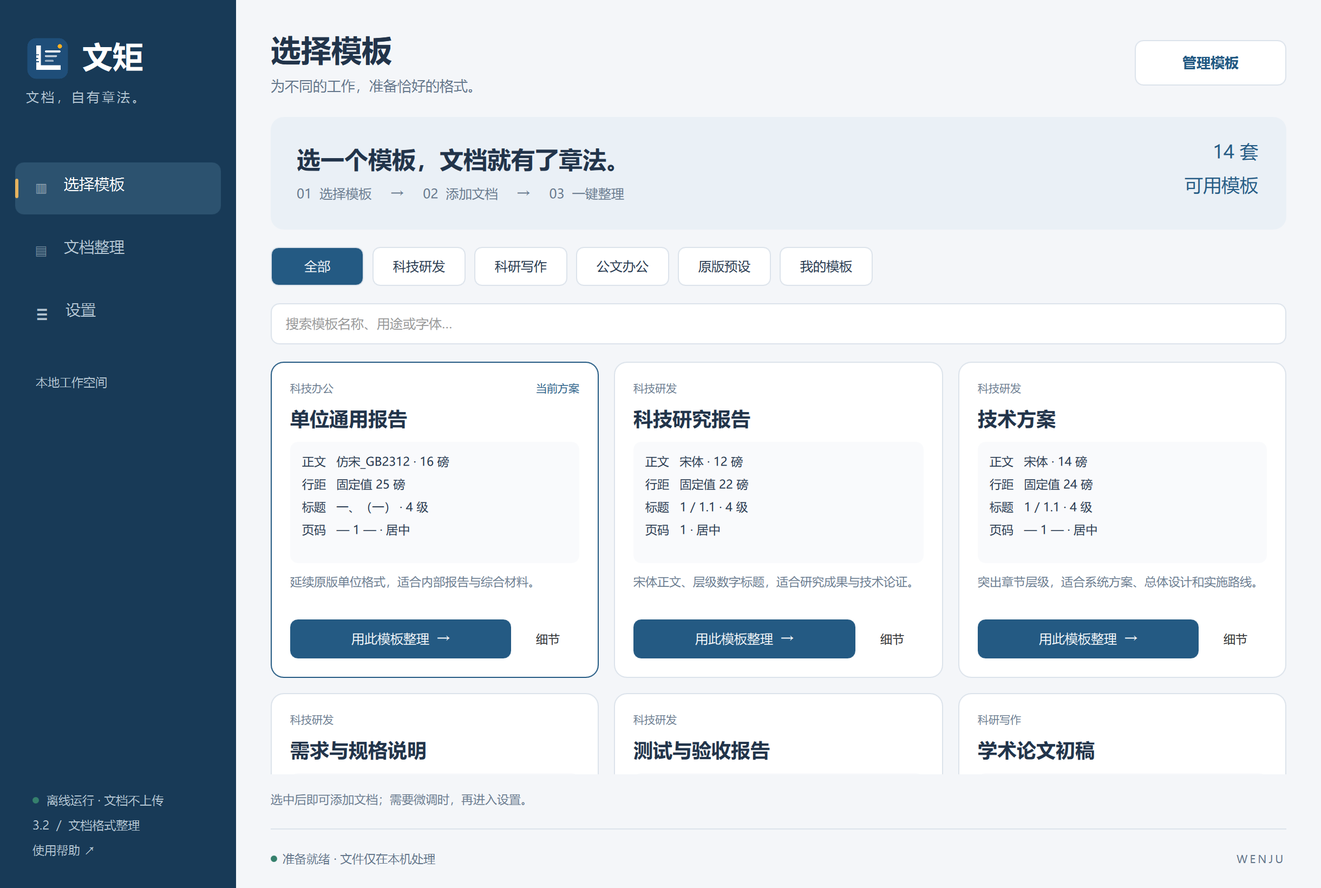
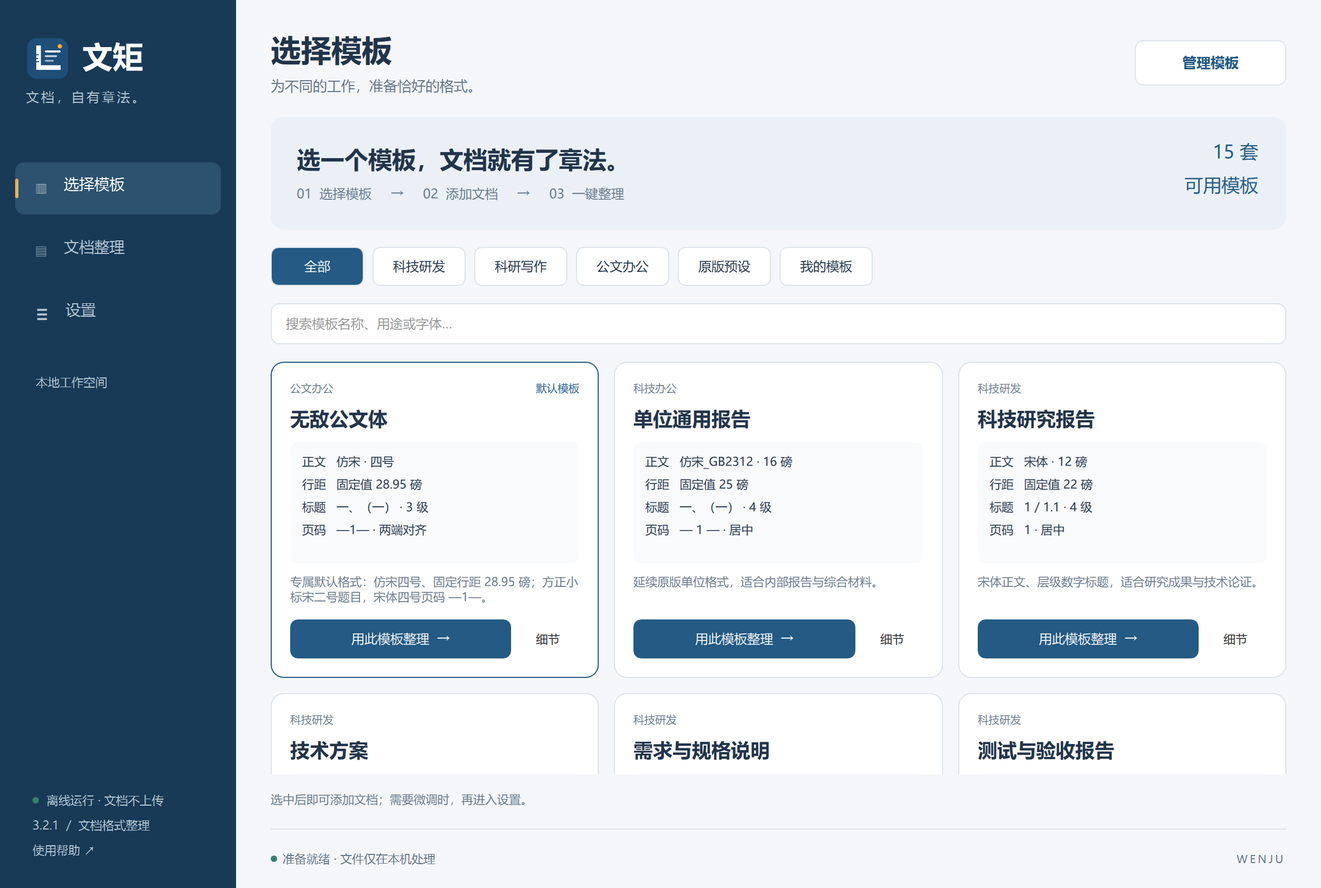
Add Wudi official default preset and document title/security styles

diff --git a/Main.qml b/Main.qml
@@ -158,7 +158,7 @@ ApplicationWindow {
         }
         Column {x:30;anchors.bottom:parent.bottom;anchors.bottomMargin:28;spacing:9
             Row {spacing:7;Rectangle{width:6;height:6;radius:3;color:appearance.palette["#8cbaa8"];anchors.verticalCenter:parent.verticalCenter} Txt{text:"离线运行 · 文档不上传";color:appearance.palette["#adc1d0"];font.pixelSize:Math.round(11*appearance.scale)}}
-            Txt {text:"3.2  /  文档格式整理";color:appearance.palette["#738fa6"];font.pixelSize:Math.round(11*appearance.scale)}
+            Txt {text:"3.2.1  /  文档格式整理";color:appearance.palette["#738fa6"];font.pixelSize:Math.round(11*appearance.scale)}
             Txt {text:"使用帮助 ↗";color:appearance.palette["#adc1d0"];font.pixelSize:Math.round(11*appearance.scale);MouseArea{anchors.fill:parent;cursorShape:Qt.PointingHandCursor;onClicked:bridge.help()}}
         }
     }
@@ -272,7 +272,7 @@ ApplicationWindow {
                                 ColumnLayout {Layout.fillWidth:true;Txt{text:"字间距 / 磅";font.pixelSize:Math.round(12*appearance.scale);color:muted}Choice{Layout.fillWidth:true;editable:true;validator:DoubleValidator{bottom:-2;top:20} model:["-0.5","0","0.5","1","1.5","2","3"];editText:String(win.spacing);currentIndex:model.indexOf(String(win.spacing));onActivated:{win.spacing=Number(currentText);selectedPreset=-1;win.commitPage()}onAccepted:{if(Number(editText)>=-2&&Number(editText)<=20){win.spacing=Number(editText);win.commitPage();}}}}
                             }
                             Txt{text:"对齐方式";font.pixelSize:Math.round(12*appearance.scale);color:muted}
-                            Choice {Layout.fillWidth:true;model:["底部左侧","底部居中","底部右侧"];currentIndex:model.indexOf(win.alignment);onActivated:{win.alignment=currentText;win.commitPage();}}
+                            Choice {Layout.fillWidth:true;model:["底部左侧","底部居中","底部右侧","底部两端对齐"];currentIndex:model.indexOf(win.alignment);onActivated:{win.alignment=currentText;win.commitPage();}}
                             Txt{text:"从哪里开始编号";font.pixelSize:Math.round(12*appearance.scale);color:muted}
                             Choice {Layout.fillWidth:true;model:["目录后","封面后","全文"];currentIndex:model.indexOf(win.startMode);onActivated:{win.startMode=currentText;win.commitPage();}}
                             Item{Layout.preferredHeight:4}
@@ -293,7 +293,7 @@ ApplicationWindow {
                             Rectangle {anchors{left:parent.left;right:parent.right;bottom:parent.bottom;leftMargin:24;rightMargin:24;bottomMargin:65}height:1;color:appearance.palette["#edf0f4"]}
                             Text {anchors{left:parent.left;right:parent.right;bottom:parent.bottom;leftMargin:24;rightMargin:24;bottomMargin:30}
                                 text:win.pageEnabled?win.prefix+"1"+win.suffix:"不显示页码";color:"#22344a";font.family:win.pageFont;font.pointSize:win.pageSize;font.letterSpacing:win.spacing*96/72
-                                horizontalAlignment:win.alignment==="底部左侧"?Text.AlignLeft:win.alignment==="底部右侧"?Text.AlignRight:Text.AlignHCenter
+                                horizontalAlignment:(win.alignment==="底部左侧"||win.alignment==="底部两端对齐")?Text.AlignLeft:win.alignment==="底部右侧"?Text.AlignRight:Text.AlignHCenter
                             }
                         }
                         Txt{anchors{bottom:parent.bottom;bottomMargin:22;horizontalCenter:parent.horizontalCenter}text:"示意预览 · 实际分页以 Word / WPS 为准";color:muted;font.pixelSize:Math.round(11*appearance.scale)}

diff --git a/TemplateHome.qml b/TemplateHome.qml
@@ -38,7 +38,7 @@ ColumnLayout {
                         RowLayout {Layout.fillWidth:true
                             Text{text:modelData.category;color:appearance.colors.muted;font.family:appearance.fontFamily;font.pixelSize:Math.round(10*appearance.scale)}
                             Item{Layout.fillWidth:true}
-                            Text{text:bridge.selectedId===modelData.id?"当前方案":"";color:appearance.colors.accent;font.family:appearance.fontFamily;font.pixelSize:Math.round(10*appearance.scale)}
+                            Text{text:modelData.id==="wudi-official"?"默认模板":bridge.selectedId===modelData.id?"当前方案":"";color:appearance.colors.accent;font.family:appearance.fontFamily;font.pixelSize:Math.round(10*appearance.scale)}
                         }
                         Text{text:modelData.name;Layout.fillWidth:true;elide:Text.ElideRight;color:appearance.colors.ink;font.family:appearance.fontFamily;font.pixelSize:Math.round(18*appearance.scale);font.weight:Font.DemiBold}
                         Rectangle {Layout.fillWidth:true;Layout.preferredHeight:112*appearance.scale;radius:7;color:appearance.colors.field

diff --git a/preset_store.py b/preset_store.py
@@ -5,7 +5,7 @@ import math
 import uuid
 import zipfile
 from pathlib import Path
-from templates import CATALOG, apply_template
+from templates import CATALOG, apply_template, DEFAULT_TEMPLATE
 from rule_schema import OPTIONS, GROUP_TIPS, FONT_CHOICES
 
 ROOT = Path(__file__).resolve().parent
@@ -25,13 +25,13 @@ def atomic_json(path, value):
 def options_for(path):
     opt=OPTIONS.get(path)
     if opt is not None:return opt
-    if path.endswith('.字号'):return list(SIZES)
+    if path.endswith('字号'):return list(SIZES)
     return None
 
 def checked(path,value,default):
     key=path.split('.')[-1]
     if isinstance(value,str) and any(ord(c)<32 and c not in '\t\r\n' for c in value):raise ValueError(path+' 包含非法控制字符')
-    if key=='字号':
+    if key.endswith('字号'):
         if isinstance(value,str) and value in SIZES:return value
         if isinstance(value,bool):raise ValueError(path+' 必须是字号名或磅数')
         try:v=float(value)
@@ -59,7 +59,7 @@ def checked(path,value,default):
     if opt is not None and value not in opt:raise ValueError(path+' 的选项无效')
     if path=='输出.后缀' and (not value.strip() or any(c in value for c in '\\/:*?"<>|') or any(ord(c)<32 for c in value)):
         raise ValueError('输出后缀不能为空，也不能包含路径或文件名非法字符')
-    if isinstance(value,str) and (key in ('字体','中文字体') or path.startswith('字体.') and key!='模式') and not value.strip():raise ValueError(path+' 不能为空')
+    if isinstance(value,str) and (key.endswith('字体') or path.startswith('字体.') and key!='模式') and not value.strip():raise ValueError(path+' 不能为空')
     return value
 
 def normalize(raw):
@@ -100,12 +100,12 @@ def fields(rules,section):
         if key.startswith('_') or isinstance(value,dict):continue
         path=section+'.'+key;opt=options_for(path)
         kind='bool' if isinstance(value,bool) else 'array' if isinstance(value,list) else 'number' if isinstance(value,(int,float)) else 'text'
-        editable=key=='字号' or (key=='字体' or section=='字体' and key!='模式' or key=='中文字体')
-        if opt is None and editable and key!='字号':opt=FONT_CHOICES
+        editable=key.endswith('字号') or key.endswith('字体') or (key=='字体' or section=='字体' and key!='模式' or key=='中文字体')
+        if opt is None and editable and not key.endswith('字号'):opt=FONT_CHOICES
         if opt is not None:kind='choice'
         values=list(opt) if opt is not None else []
         labels=list(opt.values()) if isinstance(opt,dict) else [str(v) for v in values]
-        unit='cm' if key in ('上边距','下边距','左边距','右边距','页眉距','页脚距') else '字符' if '缩进字符' in key else '磅' if key in ('段前','段后','字间距') else ''
+        unit='cm' if key in ('上边距','下边距','左边距','右边距','页眉距','页脚距') else '字符' if '缩进字符' in key else '磅' if key in ('段前','段后','字间距','题目行距','密级行距') else ''
         rows.append({'path':path,'label':key,'value':value,'display':'、'.join(value) if isinstance(value,list) else str(value),
             'kind':kind,'values':values,'labels':labels,'editable':editable,'unit':unit})
     return rows
@@ -116,7 +116,7 @@ class PresetStore:
         self.custom=[];self.builtins={}
         for item in CATALOG:
             rules=apply_template(BASE,item['id'])
-            a,b={'1':('',''),'— 1 —':('— ',' —'),'第 1 页':('第 ',' 页')}[item['page']]
+            a,b={'1':('',''),'— 1 —':('— ',' —'),'—1—':('—','—'),'第 1 页':('第 ',' 页')}[item['page']]
             rules['页码'].update({'左侧字符':a,'右侧字符':b,'统一字体':True,'字体':'Times New Roman' if not a else '宋体','中文字体':'宋体','起始位置':'全文' if item['category']=='公文办公' else '目录后'})
             self.builtins[item['id']]={**item,'rules':rules,'builtin':True}
         for i,path in enumerate(sorted((ROOT/'core/预设').glob('*.json'))):
@@ -126,10 +126,10 @@ class PresetStore:
         if custom_path.exists():
             self.custom=json.loads(custom_path.read_text('utf-8-sig'))
             for item in self.custom:item['rules']=normalize(item['rules'])
-        self.selected='unit';self.rules=copy.deepcopy(self.builtins['unit']['rules']);self.dirty=False
+        self.selected=DEFAULT_TEMPLATE;self.rules=copy.deepcopy(self.builtins[DEFAULT_TEMPLATE]['rules']);self.dirty=False
         current=self.data/'current.json'
         if current.exists():
-            x=json.loads(current.read_text('utf-8-sig'));self.rules=normalize(x['rules']);self.selected=x.get('selected','unit');self.dirty=x.get('dirty',False)
+            x=json.loads(current.read_text('utf-8-sig'));self.rules=normalize(x['rules']);self.selected=x.get('selected',DEFAULT_TEMPLATE);self.dirty=x.get('dirty',False)
     def persist(self):atomic_json(self.data/'current.json',{'selected':self.selected,'rules':self.rules,'dirty':self.dirty})
     def items(self):return list(self.builtins.values())+self.custom
     def find(self,id):
@@ -156,7 +156,7 @@ class PresetStore:
         if not t or t.get('builtin'):raise ValueError('内置模板不能删除')
         updated=[x for x in self.custom if x['id']!=id]
         atomic_json(self.data/'templates.json',updated);self.custom=updated
-        if id==self.selected:self.select('unit')
+        if id==self.selected:self.select(DEFAULT_TEMPLATE)
     def import_files(self,paths):
         incoming=[]
         def parse(raw,name):

diff --git a/core/docx_fmt.py b/core/docx_fmt.py
@@ -443,6 +443,15 @@ class Formatter:
         st, pp, rp = ensure("CoverInfo", "封面落款")
         apply_para_fmt(pp, cv["落款"]); apply_run_fmt(rp, cv["落款"], F["封面落款"], west)
         reorder(pp, PPR_ORDER); reorder(rp, RPR_ORDER)
+        official = self.R.get("公文", {})
+        if official.get("启用"):
+            for sid, name, prefix, align in (("OfficialTitle", "公文题目", "题目", "center"), ("SecurityMark", "密级", "密级", "left")):
+                cfg = {"字号": official[prefix+"字号"], "加粗": False, "对齐": align,
+                       "行距类型": "固定值", "行距值": official[prefix+"行距"],
+                       "段前": 0, "段后": 0, "首行缩进字符": 0}
+                st, pp, rp = ensure(sid, name)
+                apply_para_fmt(pp, cfg); apply_run_fmt(rp, cfg, official[prefix+"字体"], west)
+                reorder(pp, PPR_ORDER); reorder(rp, RPR_ORDER)
         self.note("样式重建数", 9)
 
     # ---------- 段落分类
@@ -743,7 +752,7 @@ class Formatter:
     def _add_footer_part(self, items, N):
         font = N.get("字体", "宋体")
         size = size_pt(N.get("字号", 10.5), 10.5)
-        jc = {"底部居中": "center", "底部右侧": "right", "底部左侧": "left"}.get(N.get("位置", "底部居中"), "center")
+        jc = {"底部居中": "center", "底部右侧": "right", "底部左侧": "left", "底部两端对齐": "both"}.get(N.get("位置", "底部居中"), "center")
         legacy = {"1": ("", ""), "- 1 -": ("- ", " -"), "第 1 页": ("第 ", " 页")}
         pre, post = legacy.get(N.get("格式", "1"), ("", ""))
         pre, post = N.get("左侧字符", pre), N.get("右侧字符", post)
@@ -829,9 +838,28 @@ class Formatter:
         F, B, C, T = self.R["字体"], self.R["正文"], self.R["题注"], self.R["表格"]
         kids = list(body)
         self.toc_range = self.find_toc(kids)
+        official = self.R.get("公文", {})
+        special = {}
+        if official.get("启用"):
+            front = True
+            for p in kids:
+                if p.tag != q("p"):
+                    front = False
+                    continue
+                text = para_text(p).strip()
+                if not text: continue
+                sid = style_id(p)
+                if front and official.get("识别密级行", True) and re.fullmatch(r"(?:秘密|机密|绝密)(?:[★☆·\s]*(?:\d+年|\d+个月|长期|永久))?", text):
+                    special[id(p)] = ("SecurityMark", "密级")
+                    continue
+                align = p.find("w:pPr/w:jc", NS)
+                is_title = sid in ("Title", "标题", "OfficialTitle") or sid == self.sid.get("Title", "__missing__")
+                if is_title or (front and official.get("首个居中段作为题目", True) and align is not None and align.get(q("val")) == "center" and len(text) <= 100 and not self.label_level(text)):
+                    special[id(p)] = ("OfficialTitle", "题目")
+                front = False
         # 封面判定：首个 sectPr 段落之前、且其中无标题 → 视为封面
         cover_end = -1
-        if self.R["封面"]["启用"]:
+        if self.R["封面"]["启用"] and not official.get("启用"):
             for i, k in enumerate(kids):
                 if k.tag == q("p") and k.find("w:pPr/w:sectPr", NS) is not None:
                     cover_end = i; break
@@ -875,6 +903,13 @@ class Formatter:
                 self.do_table(k); prev_img = False; last_cls = "tbl"; continue
             if k.tag != q("p"): continue
             p = k
+            if id(p) in special:
+                sid, prefix = special[id(p)]
+                self.para_reset(p, sid, keep_next=True)
+                self.clean_runs(p, official[prefix+"字号"], official[prefix+"字体"], keep_bi=False)
+                self.note("公文"+prefix+"段数")
+                prev_img = False; last_cls = "official"
+                continue
             next_tbl = (i + 1 < len(kids) and kids[i + 1].tag == q("tbl"))
             cls = self.classify(p, None, next_tbl, prev_img)
             txt = para_text(p).strip()

diff --git a/templates.py b/templates.py
@@ -1,7 +1,10 @@
 """Editable scenario presets. These are house styles, not certified standards."""
 import copy
 
+DEFAULT_TEMPLATE = 'wudi-official'
+
 CATALOG = [
+    dict(id=DEFAULT_TEMPLATE,name='无敌公文体',category='公文办公',desc='专属默认格式：仿宋四号、固定行距 28.95 磅；方正小标宋二号题目，宋体四号页码 —1—。',font='仿宋',size=14,line=28.95,number='汉字顿号',page='—1—'),
     dict(id='unit',name='单位通用报告',category='科技办公',desc='延续原版单位格式，适合内部报告与综合材料。',font='仿宋_GB2312',size=16,line=25,number='汉字顿号',page='— 1 —'),
     dict(id='research',name='科技研究报告',category='科技研发',desc='宋体正文、层级数字标题，适合研究成果与技术论证。',font='宋体',size=12,line=22,number='多级数字',page='1'),
     dict(id='technical',name='技术方案',category='科技研发',desc='突出章节层级，适合系统方案、总体设计和实施路线。',font='宋体',size=14,line=24,number='多级数字',page='— 1 —'),
@@ -17,6 +20,7 @@ CATALOG = [
 ]
 
 def apply_template(base, name):
+    if name==DEFAULT_TEMPLATE:return apply_official_photo(base)
     r=copy.deepcopy(base)
     t=next((t for t in CATALOG if t['id']==name),CATALOG[0])
     r['字体']['正文']=t['font']; r['字体']['表格']=t['font']
@@ -33,4 +37,22 @@ def apply_template(base, name):
     # Do not modify technical symbols and percentages in scientific manuscripts.
     if t['category'] in ('科技研发','科研写作'):r['标点']['启用']=False
     if t['id'] in ('minutes','notice','brief','official'):r['题注']['缺失时自动补编号']=False
+    return r
+
+
+def apply_official_photo(base):
+    """The user's confirmed house style, including typography and pagination."""
+    r=copy.deepcopy(base)
+    r['页面'].update({'上边距':3.7,'下边距':3.5,'左边距':2.8,'右边距':2.6,'页眉距':1.5,'页脚距':2.5})
+    r['字体'].update({'正文':'仿宋','括号内':'仿宋','一级标题':'黑体',
+                    '二级标题':'楷体_GB2312','三级标题':'仿宋_GB2312','封面标题':'方正小标宋简体'})
+    r['正文'].update({'字号':'四号','行距类型':'固定值','行距值':28.95,'对齐':'both'})
+    for level in ('一级','二级','三级'):
+        r['标题'][level].update({'字号':'三号','行距类型':'固定值','行距值':28.95,'段前':0,'段后':0})
+    r['标题']['级数']=3
+    r['标题']['一级']['字号']='三号'
+    r['封面']['标题'].update({'字号':'二号','行距类型':'固定值','行距值':28.95})
+    r['公文'].update({'启用':True,'题目字体':'方正小标宋简体','题目字号':'二号','密级字体':'黑体','密级字号':'三号'})
+    r['页码'].update({'启用':True,'字体':'宋体','中文字体':'宋体','统一字体':True,'字号':'四号','位置':'底部两端对齐','左侧字符':'—','右侧字符':'—','字间距':0,'起始位置':'全文'})
+    r['题注']['缺失时自动补编号']=False
     return r

diff --git a/test_official.py b/test_official.py
@@ -1,0 +1,42 @@
+import tempfile,zipfile,sys,copy
+from pathlib import Path
+import xml.etree.ElementTree as ET
+from preset_store import BASE,normalize,PresetStore
+from templates import apply_official_photo
+from worker import execute
+sys.path.insert(0,str(Path(__file__).resolve().parent/'core'))
+from docx_fmt import q,NS,parse_keep_ns
+r=normalize(apply_official_photo(BASE));r['字体嵌入']['启用']=False;r['页码']['起始位置']='全文'
+with tempfile.TemporaryDirectory(prefix='wenju-photo-') as d:
+ store=PresetStore(Path(d)/'data')
+ assert store.selected=='wudi-official' and store.rules['正文']['字号']=='四号'
+ assert store.rules['标题']['级数']==3
+ p=Path(d)/'official.docx'
+ with zipfile.ZipFile('core/样例/样例_整理前.docx') as z:parts={n:z.read(n) for n in z.namelist()}
+ doc,_=parse_keep_ns(parts['word/document.xml']);body=doc.find('w:body',NS);sp=copy.deepcopy(body.find('w:sectPr',NS));body.clear()
+ for text,center in [('秘密★10年',False),('关于推进科技创新工作的通知',True),('一、总体要求',False),('（一）工作目标',False),('1.实施步骤',False),('按照计划落实各项工作。',False)]:
+  para=ET.SubElement(body,q('p'))
+  if center:ET.SubElement(ET.SubElement(para,q('pPr')),q('jc'),{q('val'):'center'})
+  ET.SubElement(ET.SubElement(para,q('r')),q('t')).text=text
+ if sp is not None:body.append(sp)
+ parts['word/document.xml']=ET.tostring(doc,encoding='utf-8')
+ with zipfile.ZipFile(p,'w') as z:
+  for name,data in parts.items():z.writestr(name,data)
+ out=execute({'source':str(p),'rules':r});assert out['ok'],out
+ with zipfile.ZipFile(out['output']) as z:
+  doc=ET.fromstring(z.read('word/document.xml'));styles=ET.fromstring(z.read('word/styles.xml'))
+  mar=doc.find('.//w:pgMar',NS)
+  for key,cm in [('top',3.7),('bottom',3.5),('left',2.8),('right',2.6),('header',1.5),('footer',2.5)]:
+   assert int(mar.get(q(key)))==round(cm/2.54*1440)
+  ps=doc.findall('w:body/w:p',NS)
+  assert ps[0].find('w:pPr/w:pStyle',NS).get(q('val'))=='SecurityMark'
+  assert ps[1].find('w:pPr/w:pStyle',NS).get(q('val'))=='OfficialTitle'
+  for sid,font,size in [('OfficialTitle','方正小标宋简体','44'),('SecurityMark','黑体','32'),('Normal','仿宋','28')]:
+   st=next(x for x in styles.findall('w:style',NS) if x.get(q('styleId'))==sid)
+   assert st.find('w:rPr/w:rFonts',NS).get(q('eastAsia'))==font
+   assert st.find('w:rPr/w:sz',NS).get(q('val'))==size
+   assert st.find('w:pPr/w:spacing',NS).get(q('line'))=='579'
+  footer=ET.fromstring(z.read(next(n for n in z.namelist() if n.startswith('word/footer') and n.endswith('.xml'))))
+  assert ''.join(t.text or '' for t in footer.findall('.//w:t',NS))=='—1—'
+  assert footer.find('.//w:jc',NS).get(q('val'))=='both'
+ print('PASS: official title, existing security mark, body typography and 28.95pt line spacing in actual DOCX')

diff --git a/core/infer.py b/core/infer.py
@@ -252,7 +252,7 @@ def infer(path, base_rules=None):
             has_pn = True
             x = data.decode("utf-8", "ignore")
             jc = re.search(r'<w:jc w:val="(\w+)"', x)
-            R["页码"]["位置"] = {"center": "底部居中", "right": "底部右侧", "left": "底部左侧"}.get(jc.group(1) if jc else "center", "底部居中")
+            R["页码"]["位置"] = {"center": "底部居中", "right": "底部右侧", "left": "底部左侧", "both": "底部两端对齐"}.get(jc.group(1) if jc else "center", "底部居中")
             f = re.search(r'w:ascii="([^"]+)"', x); s = re.search(r'<w:sz w:val="(\d+)"', x)
             if f: R["页码"]["字体"] = f.group(1)
             if s: R["页码"]["字号"] = pt_name(int(s.group(1)) / 2)
@@ -282,7 +282,7 @@ def infer(path, base_rules=None):
             pn['左侧字符']=''.join(t.text or '' for c in children[:start] for t in c.iter(q('t')))
             pn['右侧字符']=''.join(t.text or '' for c in children[end+1:] for t in c.iter(q('t')))
             jc=p.find('w:pPr/w:jc',NS)
-            if jc is not None:pn['位置']={'left':'底部左侧','right':'底部右侧','center':'底部居中'}.get(jc.get(q('val')),'底部居中')
+            if jc is not None:pn['位置']={'left':'底部左侧','right':'底部右侧','center':'底部居中','both':'底部两端对齐'}.get(jc.get(q('val')),'底部居中')
             rp=format_run.find('w:rPr',NS) if format_run is not None else None
             if rp is not None:
                 fonts=rp.find('w:rFonts',NS);size=rp.find('w:sz',NS);spacing=rp.find('w:spacing',NS)

diff --git a/test_presets.py b/test_presets.py
@@ -12,7 +12,7 @@ def expect_error(fn):
 
 with tempfile.TemporaryDirectory(prefix='wenju-presets-') as tmp:
     d=Path(tmp);s=PresetStore(d/'data')
-    assert len(s.items())==14
+    assert len(s.items())==15
     # Every original editable leaf has a form field, including all nine heading levels.
     def leaves(obj,prefix=''):
         for k,v in obj.items():
@@ -40,7 +40,7 @@ with tempfile.TemporaryDirectory(prefix='wenju-presets-') as tmp:
     other=PresetStore(d/'other')
     added=other.import_files([d/'single.json']);assert added[0]['rules']==snapshot
     again=other.import_files([d/'single.json']);assert again[0]['name']!=added[0]['name']
-    all_added=other.import_files([d/'bundle.json']);assert len(all_added)==15
+    all_added=other.import_files([d/'bundle.json']);assert len(all_added)==16
     with zipfile.ZipFile(d/'legacy.zip','w') as z:
         z.writestr('../legacy.json',json.dumps(original,ensure_ascii=False))
     assert len(other.import_files([d/'legacy.zip']))==1
@@ -76,5 +76,5 @@ with tempfile.TemporaryDirectory(prefix='wenju-presets-') as tmp:
     assert inferred['ok'] and inferred['notes'] and inferred['rules']['正文']['字号']==19
     assert inferred['rules']['页码']['左侧字符']=='第 <& '
     assert inferred['rules']['页码']['字间距']==1.25
-    s.delete(personal);assert not s.find(personal) and s.selected=='unit'
+    s.delete(personal);assert not s.find(personal) and s.selected=='wudi-official'
     print('PASS: actual DOCX margins/footer/output suffix, sample inference, template deletion')

diff --git a/launcher/Launcher.cs b/launcher/Launcher.cs
@@ -9,8 +9,8 @@ using System.Windows.Forms;
 [assembly: AssemblyDescription("文矩 · 文档格式整理系统")]
 [assembly: AssemblyProduct("文矩")]
 [assembly: AssemblyCompany("WenJu")]
-[assembly: AssemblyVersion("3.2.0.0")]
-[assembly: AssemblyFileVersion("3.2.0.0")]
+[assembly: AssemblyVersion("3.2.1.0")]
+[assembly: AssemblyFileVersion("3.2.1.0")]
 
 internal static class Launcher {
     private static string Quote(string value) {

diff --git a/launcher/package.py b/launcher/package.py
@@ -4,7 +4,7 @@ import shutil,zipfile,struct,zlib
 
 ROOT=Path(__file__).resolve().parent.parent
 OUT=ROOT/'dist';OUT.mkdir(exist_ok=True)
-ARCHIVE=OUT/'文矩_3.2.0_Windows_免安装.zip'
+ARCHIVE=OUT/'文矩_3.2.1_Windows_免安装.zip'
 
 class ChineseZipInfo(zipfile.ZipInfo):
     def _encodeFilenameFlags(self):

diff --git a/README.md b/README.md
@@ -2,7 +2,10 @@
 
 **文档，自有章法。** 离线 Word 文档格式整理工具，Qt Quick / QML 桌面界面与 Python 文档处理引擎。
 
-## 3.2 功能
+## 3.2.1 功能
+
+- 新增默认模板「无敌公文体」：仿宋四号，固定行距 28.95 磅，页边距上 3.7 / 下 3.5 / 左 2.8 / 右 2.6 cm；方正小标宋简体二号题目，黑体三号密级，宋体四号页码 —1—。
+- 公文题目和密级独立配置；仅识别已有密级行。正文与页码均使用两端对齐，所有页相同。
 
 - 默认进入模板首页：选模板 → 导入文档并整理 → 设置。模板卡直接显示正文、行距、标题和页码规则，再展示用途。
 - 精致的品牌开场：标尺成形、文字归位、金点落位；约两秒，可跳过，也可在设置中关闭。
@@ -10,8 +13,8 @@
 
 - 深海蓝、青竹绿、纸墨暖白、鸢尾紫、星夜深色，五套即时切换的界面皮肤。
 - 可选界面字体及 12 / 14 / 16 / 18 四档字号；偏好与文档排版规则独立保存。
-- 14 套预设，包含科技研发、科研写作、公文办公及两套原版预设。
-- 229 项可编辑格式设置：页面、字体、字体嵌入、正文、九级标题、图表题注、表格、封面、页码、标点、输出。
+- 15 套预设，包含科技研发、科研写作、公文办公及两套原版预设。
+- 238 项可编辑格式设置：页面、字体、字体嵌入、正文、九级标题、图表题注、表格、封面、页码、标点、输出。
 - 模板编辑、另存、删除、JSON / ZIP 导入、单套及整库导出；从排版样本识别模板。
 - 页码左右字符、整组字体字号、字间距、对齐、起始位置与示意预览。
 - 后台独立进程、批量任务、规则快照、原文档保护、应用内报告与环境检测。
